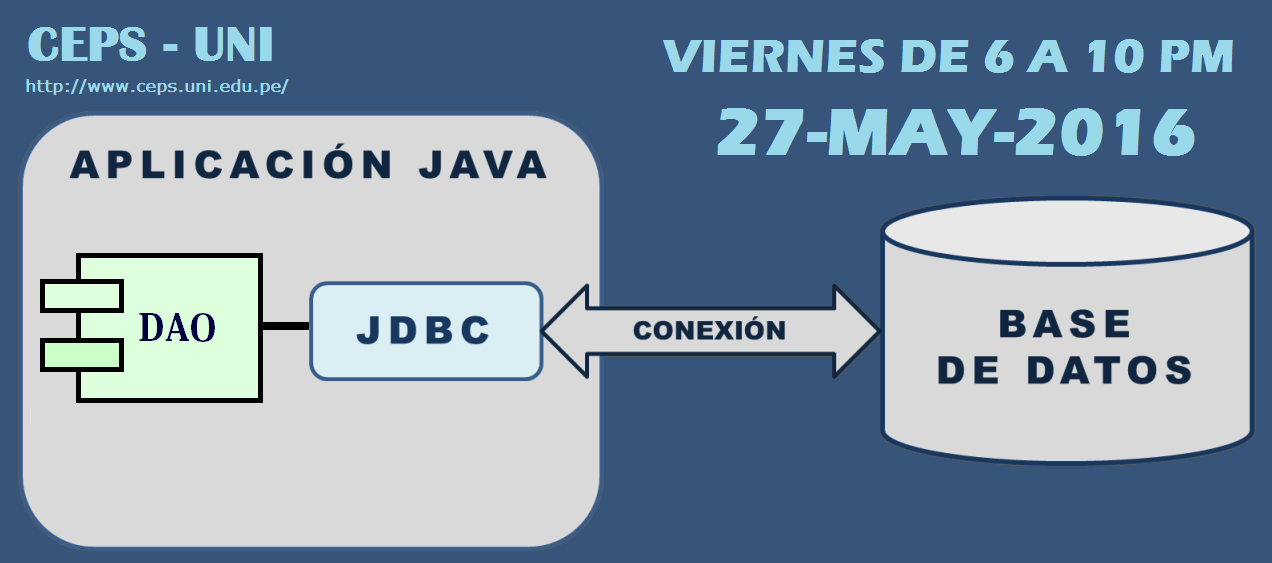
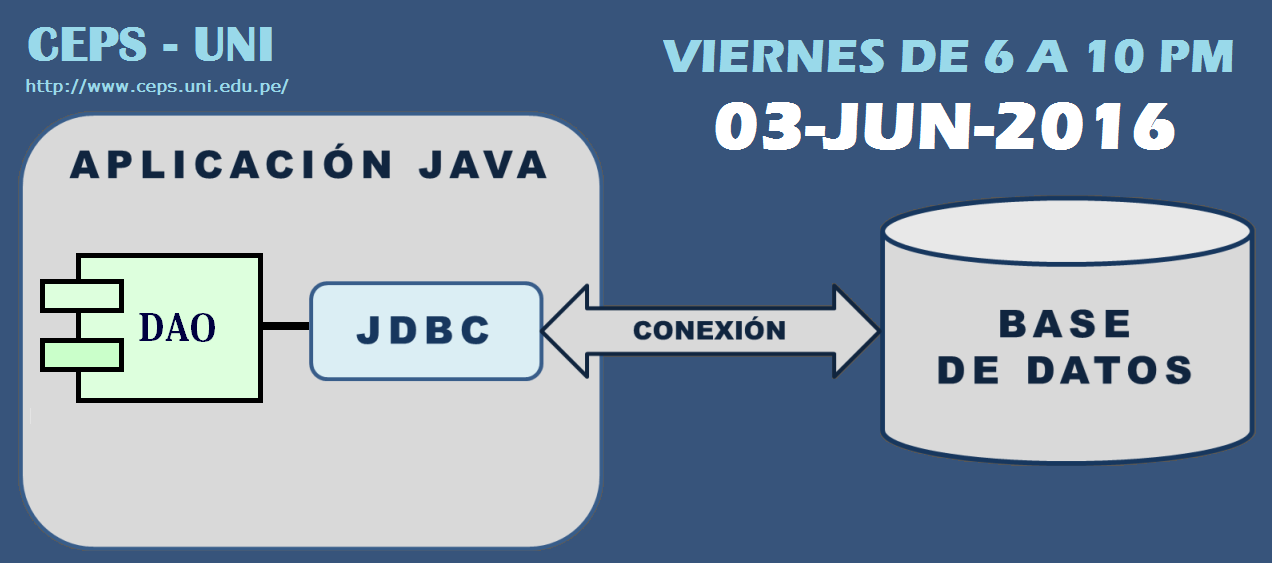
Repositorio.

Changed region(s): [[0.5519, 0.1812, 0.9505, 0.302]]

diff --git a/README.md b/README.md
@@ -3,8 +3,8 @@
 # JAVA CLIENTE SERVIDOR
 
 - Lugar: CEPS-UNI
-- Horario: VIERNES de 2 pm a 6 pm
-- Inicio: 27-MAYO-2016
+- Horario: VIERNES de 6 pm a 10 pm
+- Inicio: 03-JUNIO-2016
 - Dirección: https://goo.gl/maps/FvheiZsxDDy
 - Contenido: http://www.ceps.uni.edu.pe/doc_web/programas/programacion/des_apli_con_jdbc.html
 - Página: http://gcoronelc.github.io/CEPSUNI_JDBC_002/
@@ -34,7 +34,7 @@
 
 # CLASE 01 
 
-- Fecha: 27-MAYO-2016
+- Fecha: 03-JUNIO-2016
 - Revisado Git y GitHub
 - Instalar Oracle
 - Crear esquema Eureka
